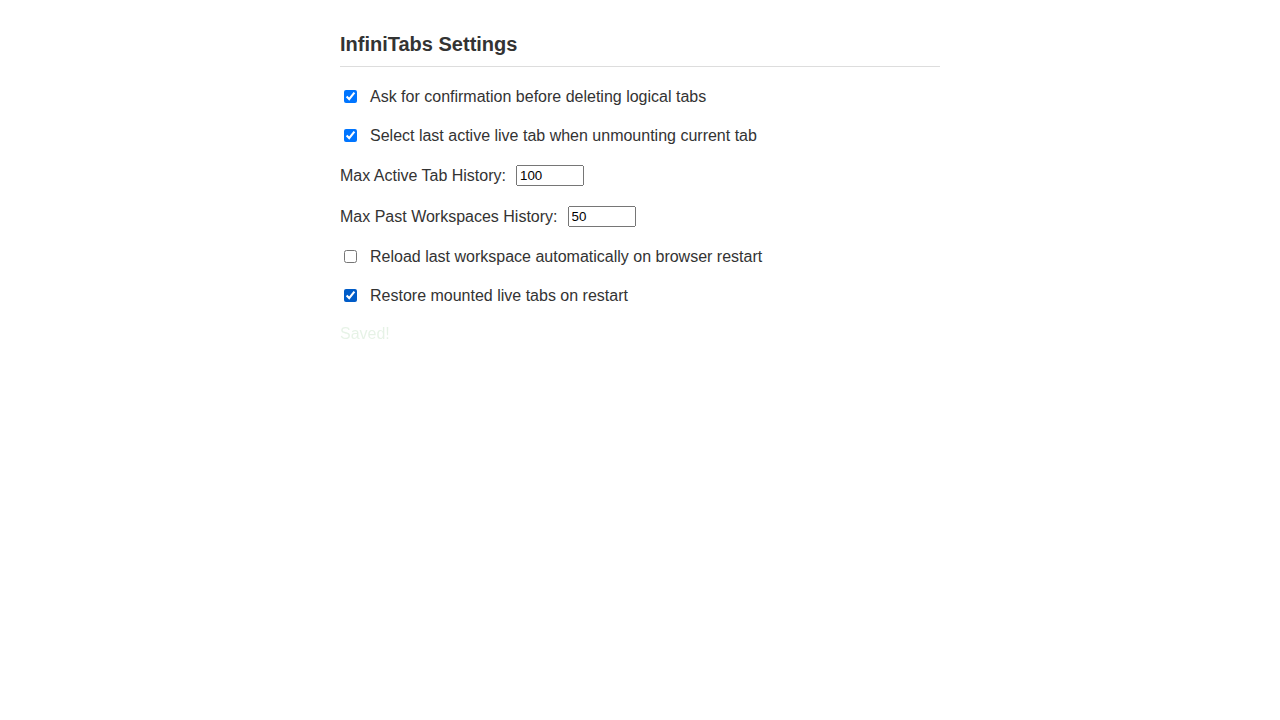
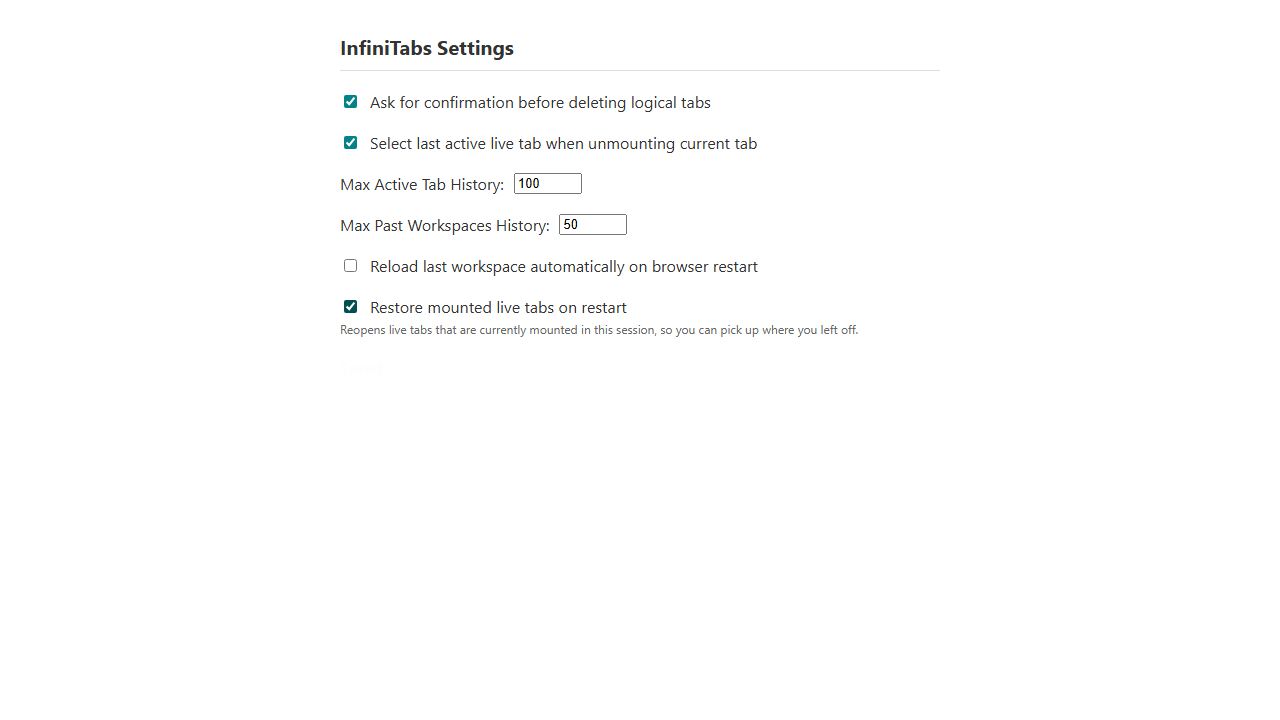
fix(pr44): address unresolved CodeRabbit review feedback
Resolve pending mount queue correctness/performance issues, improve restore-option accessibility, and harden verification/test determinism by replacing sleep-based waits with explicit flush/wait hooks and assertions.

Agentic harness: OpenCode (openai/gpt-5.3-codex).

diff --git a/src/background.js b/src/background.js
@@ -32,7 +32,54 @@ const state = {
 // Kept outside 'state' object to ensure it's not accidentally reset or lost during state operations
 let isRestoring = false;
 
-const pendingMounts = []; // Queue of { logicalId, windowId }
+// Map<windowId, logicalId[]> — O(1) enqueue/dequeue per window, replacing
+// the previous flat array that required O(n) linear scans.
+const pendingMountsByWindow = new Map();
+
+/**
+ * Enqueues a mount operation for later matching in chrome.tabs.onCreated.
+ * @param {string} logicalId
+ * @param {number} windowId
+ */
+function enqueueMount(logicalId, windowId) {
+    const queue = pendingMountsByWindow.get(windowId);
+    if (queue) {
+        queue.push(logicalId);
+    } else {
+        pendingMountsByWindow.set(windowId, [logicalId]);
+    }
+}
+
+/**
+ * Dequeues the oldest mount operation for the given window (FIFO).
+ * Returns the dequeued logicalId, or null if the window has no pending mounts.
+ * Cleans up the map entry when the queue is empty.
+ * @param {number} windowId
+ * @returns {string|null}
+ */
+function dequeueMountForWindow(windowId) {
+    const queue = pendingMountsByWindow.get(windowId);
+    if (!queue || queue.length === 0) return null;
+    const logicalId = queue.shift();
+    if (queue.length === 0) pendingMountsByWindow.delete(windowId);
+    return logicalId;
+}
+
+/**
+ * Removes a specific pending mount entry matching both logicalId and windowId.
+ * Used during cleanup in the try/catch blocks of mount callers.
+ * @param {string} logicalId
+ * @param {number} windowId
+ */
+function cancelMount(logicalId, windowId) {
+    const queue = pendingMountsByWindow.get(windowId);
+    if (!queue) return;
+    const idx = queue.indexOf(logicalId);
+    if (idx !== -1) {
+        queue.splice(idx, 1);
+        if (queue.length === 0) pendingMountsByWindow.delete(windowId);
+    }
+}
 
 // --- Helper Functions ---
 // Queue for serializing move operations to handle group moves (SHIFT+Drag)
@@ -342,9 +389,12 @@ async function persistMountedTabs() {
         const session = state.sessionsById[sessionId];
         if (!session) continue;
 
-        const mountedIds = session.logicalTabs
-            .filter(lt => lt.liveTabIds.length > 0)
-            .map(lt => lt.logicalId);
+        const mountedIds = [];
+        for (const lt of session.logicalTabs) {
+            if (lt.liveTabIds.length > 0) {
+                mountedIds.push(lt.logicalId);
+            }
+        }
 
         if (mountedIds.length > 0 || session.lastActiveLogicalTabId) {
             mountedState[sessionId] = {
@@ -380,21 +430,24 @@ async function restoreMountedTabsForSession(sessionId, windowId) {
     toMount.sort((a, b) => a.indexInSession - b.indexInSession);
 
     for (const logical of toMount) {
+        const logicalId = logical.logicalId;
+        enqueueMount(logicalId, windowId);
         try {
-             const pendingEntry = { logicalId: logical.logicalId, windowId };
-             pendingMounts.push(pendingEntry);
+            const tab = await chrome.tabs.create({
+                windowId,
+                url: logical.url,
+                active: false
+            });
 
-             const tab = await chrome.tabs.create({
-                 windowId,
-                 url: logical.url,
-                 active: false
-             });
+            cancelMount(logicalId, windowId);
+            attachLiveTabToLogical(tab, logical);
 
-             // Ensure group mapping
-             if (logical.groupId) {
-                 await ensureLiveGroupForLogicalTab(tab.id, logical.groupId, session);
-             }
+            // Ensure group mapping
+            if (logical.groupId) {
+                await ensureLiveGroupForLogicalTab(tab.id, logical.groupId, session);
+            }
         } catch (e) {
+            cancelMount(logicalId, windowId);
             console.error("Failed to restore tab", e);
         }
     }
@@ -1296,10 +1349,8 @@ chrome.tabs.onCreated.addListener(async (tab) => {
 
     const windowId = tab.windowId;
 
-    const pendingIndex = pendingMounts.findIndex(p => p.windowId === windowId);
-    if (pendingIndex !== -1) {
-        const { logicalId } = pendingMounts[pendingIndex];
-        pendingMounts.splice(pendingIndex, 1);
+    const logicalId = dequeueMountForWindow(windowId);
+    if (logicalId) {
 
         const sessionId = state.windowToSession[windowId];
         if (sessionId) {
@@ -1981,8 +2032,7 @@ async function focusOrMountLogicalTab(windowId, logicalId) {
             await focusOrMountLogicalTab(windowId, logicalId);
         }
     } else {
-        const pendingEntry = { logicalId, windowId };
-        pendingMounts.push(pendingEntry);
+        enqueueMount(logicalId, windowId);
 
         // Calculate smart insert index
         // Look for the closest left-side neighbor that is live
@@ -2013,21 +2063,17 @@ async function focusOrMountLogicalTab(windowId, logicalId) {
                 index: insertIndex
             });
 
-            const idx = pendingMounts.indexOf(pendingEntry);
-            if (idx !== -1) {
-                pendingMounts.splice(idx, 1);
-                attachLiveTabToLogical(tab, logical);
+            cancelMount(logicalId, windowId);
+            attachLiveTabToLogical(tab, logical);
 
-                // If the bookmark is in a group, we should add the live tab to a group
-                if (logical.groupId) {
-                    await ensureLiveGroupForLogicalTab(tab.id, logical.groupId, session);
-                }
-
-                notifySidebarStateUpdated(windowId, sessionId);
+            // If the bookmark is in a group, we should add the live tab to a group
+            if (logical.groupId) {
+                await ensureLiveGroupForLogicalTab(tab.id, logical.groupId, session);
             }
+
+            notifySidebarStateUpdated(windowId, sessionId);
         } catch (e) {
-            const idx = pendingMounts.indexOf(pendingEntry);
-            if (idx !== -1) pendingMounts.splice(idx, 1);
+            cancelMount(logicalId, windowId);
             console.error("Failed to create tab", e);
         }
     }

diff --git a/test/test_restore_state.js b/test/test_restore_state.js
@@ -37,7 +37,7 @@ function runInSandbox(storageData, extraSetup) {
                 onActivated: { addListener: (fn) => sandbox.listeners['tabs.onActivated'] = fn },
                 query: async (queryInfo) => {
                      return sandbox.tabs.filter(t => {
-                         if (queryInfo.windowId && t.windowId !== queryInfo.windowId) return false;
+                         if (queryInfo.windowId !== undefined && t.windowId !== queryInfo.windowId) return false;
                          if (queryInfo.active !== undefined && t.active !== queryInfo.active) return false;
                          return true;
                      });
@@ -79,6 +79,7 @@ function runInSandbox(storageData, extraSetup) {
                 create: async (data) => {
                     const b = { id: 'bm_' + Math.floor(Math.random()*10000), ...data, children: [] };
                     sandbox.bookmarks.push(b);
+                    sandbox.bookmarksById.set(b.id, b);
                     // Handle parent children
                     if (data.parentId) {
                         const p = sandbox.findBookmark(data.parentId);
@@ -102,7 +103,7 @@ function runInSandbox(storageData, extraSetup) {
                         // keys is list or object with defaults
                         if (Array.isArray(keys)) {
                             const res = {};
-                            keys.forEach(k => res[k] = storageData[k]);
+                            keys.forEach(k => { res[k] = storageData[k]; });
                             return res;
                         } else {
                             // Object with defaults
@@ -127,14 +128,19 @@ function runInSandbox(storageData, extraSetup) {
         windows: [],
         tabs: [],
         bookmarks: [],
-        findBookmark: (id) => {
-             const stack = [...sandbox.bookmarks];
-             while(stack.length) {
-                 const node = stack.pop();
-                 if (node.id === id) return node;
-                 if (node.children) stack.push(...node.children);
-             }
-             return null;
+        bookmarksById: new Map(), // O(1) lookup by bookmark ID
+        findBookmark: (id) => sandbox.bookmarksById.get(id) || null,
+        rebuildBookmarkIndex: () => {
+            sandbox.bookmarksById.clear();
+            const stack = [...sandbox.bookmarks];
+            while (stack.length) {
+                const node = stack.pop();
+                if (!node || !node.id) continue;
+                sandbox.bookmarksById.set(node.id, node);
+                if (node.children && node.children.length > 0) {
+                    stack.push(...node.children);
+                }
+            }
         }
     };
 
@@ -147,9 +153,30 @@ function runInSandbox(storageData, extraSetup) {
 
     if (extraSetup) extraSetup(sandbox);
 
-    const scriptContent = fs.readFileSync('src/background.js', 'utf8');
+    const rawScript = fs.readFileSync('src/background.js', 'utf8');
+    // Strip ES module import/export statements so vm.runInContext can evaluate
+    // the script as classic JS. The mock environment already provides the
+    // required globals (formatGroupTitle, parseGroupTitle) via sandbox injection.
+    const scriptContent = rawScript
+        .replace(/^import\s+.*$/gm, '')
+        .replace(/^export\s+.*$/gm, '')
+        // Node.js v24 vm contexts can scope top-level declarations per script.
+        // Expose the smallest explicit hook only when the function exists, so
+        // the test can flush persistence without fixed sleeps.
+        + '\nif (typeof persistMountedTabs === "function") { globalThis.__testFlushPersistence = persistMountedTabs; }\n';
     vm.createContext(sandbox);
     vm.runInContext(scriptContent, sandbox);
+
+    // Prefer direct access when available; otherwise use the explicit hook.
+    // This keeps the test deterministic while avoiding assumptions about VM
+    // exposure rules across Node versions.
+    if (typeof sandbox.persistMountedTabs === 'function') {
+        sandbox.flushMountedTabsPersistence = sandbox.persistMountedTabs.bind(sandbox);
+    } else if (typeof sandbox.__testFlushPersistence === 'function') {
+        sandbox.flushMountedTabsPersistence = sandbox.__testFlushPersistence.bind(sandbox);
+    } else {
+        throw new Error('No callable mounted-tabs persistence flush hook found in sandbox');
+    }
 
     return sandbox;
 }
@@ -185,9 +212,10 @@ async function runTest() {
     console.log("Creating Tab 1...");
     await onCreated1(tab1);
 
-    // Wait for debounce (persistMountedTabs)
-    console.log("Waiting for persistence...");
-    await new Promise(r => setTimeout(r, 2500));
+    // Trigger persistence directly instead of relying on a fixed sleep,
+    // making the test deterministic and faster.
+    console.log("Persisting mounted tabs...");
+    await sandbox1.flushMountedTabsPersistence();
 
     console.log("Storage after Phase 1:", JSON.stringify(persistentStorage.sessionMountedTabs, null, 2));
 
@@ -213,6 +241,7 @@ async function runTest() {
 
     // Copy bookmarks to simulate persistence
     sandbox2.bookmarks = JSON.parse(JSON.stringify(sandbox1.bookmarks));
+    sandbox2.rebuildBookmarkIndex();
 
     // Initialize Phase 2
     if (sandbox2.listeners['onInstalled']) await sandbox2.listeners['onInstalled']();

diff --git a/src/options.html b/src/options.html
@@ -79,9 +79,12 @@
 
   <div class="option-group">
     <label>
-      <input type="checkbox" id="restore-mounted-tabs-checkbox">
+      <input type="checkbox" id="restore-mounted-tabs-checkbox" aria-describedby="restore-mounted-tabs-help">
       Restore mounted live tabs on restart
     </label>
+    <div id="restore-mounted-tabs-help" class="option-help" style="font-size: 12px; color: #666; margin-top: 4px;">
+      Reopens live tabs that are currently mounted in this session, so you can pick up where you left off.
+    </div>
   </div>
 
   <div id="status" class="status">Saved!</div>

diff --git a/verification/verify_options.py b/verification/verify_options.py
@@ -5,60 +5,62 @@ from playwright.sync_api import sync_playwright
 def verify_options_page():
     with sync_playwright() as p:
         browser = p.chromium.launch(headless=True)
-        page = browser.new_page()
+        try:
+            page = browser.new_page()
 
-        # Mock chrome API
-        mock_chrome = """
-        window.chrome = {
-            storage: {
-                local: {
-                    get: (defaults, callback) => {
-                        const items = { ...defaults };
-                        if (callback) callback(items);
-                        return Promise.resolve(items);
+            # Mock chrome API
+            mock_chrome = """
+            window.chrome = {
+                storage: {
+                    local: {
+                        get: (defaults, callback) => {
+                            const items = { ...defaults };
+                            if (callback) callback(items);
+                            return Promise.resolve(items);
+                        },
+                        set: (items, callback) => {
+                            console.log('Saved:', items);
+                            if (callback) callback();
+                        }
                     },
-                    set: (items, callback) => {
-                        console.log('Saved:', items);
-                        if (callback) callback();
-                    }
-                },
-                onChanged: { addListener: () => {} }
-            }
-        };
-        """
-        page.add_init_script(mock_chrome)
+                    onChanged: { addListener: () => {} }
+                }
+            };
+            """
+            page.add_init_script(mock_chrome)
 
-        # Navigate to options page
-        cwd = os.getcwd()
-        options_path = f"file://{cwd}/src/options.html"
-        page.goto(options_path)
+            # Navigate to options page
+            cwd = os.getcwd()
+            options_path = f"file://{cwd}/src/options.html"
+            page.goto(options_path, wait_until="load")
 
-        # Wait for options.js to run and populate
-        page.wait_for_timeout(500) # Wait a bit for JS execution
+            # Wait for the checkbox to appear instead of using a fixed sleep,
+            # avoiding flakiness on slower CI systems.
+            page.wait_for_selector("#restore-mounted-tabs-checkbox")
 
-        # Take screenshot of initial state
-        page.screenshot(path="verification/options_initial.png")
-        print("Initial screenshot taken.")
+            # Take screenshot of initial state
+            page.screenshot(path="verification/options_initial.png")
+            print("Initial screenshot taken.")
 
-        # Check checkbox existence
-        checkbox = page.locator("#restore-mounted-tabs-checkbox")
-        if checkbox.is_visible():
+            # Check checkbox existence with a hard assertion to fail fast
+            checkbox = page.locator("#restore-mounted-tabs-checkbox")
+            if not checkbox.is_visible():
+                raise AssertionError("restore-mounted-tabs-checkbox not visible")
             print("Checkbox is visible.")
-        else:
-            print("Checkbox NOT visible.")
 
-        # Click it
-        checkbox.check()
+            # Click it
+            checkbox.check()
 
-        # Verify it's checked
-        if checkbox.is_checked():
+            # Verify it's checked with a hard assertion to fail fast
+            if not checkbox.is_checked():
+                raise AssertionError("Checkbox did not become checked")
             print("Checkbox is checked.")
 
-        # Take screenshot of checked state
-        page.screenshot(path="verification/options_checked.png")
-        print("Checked screenshot taken.")
-
-        browser.close()
+            # Take screenshot of checked state
+            page.screenshot(path="verification/options_checked.png")
+            print("Checked screenshot taken.")
+        finally:
+            browser.close()
 
 if __name__ == "__main__":
     verify_options_page()
